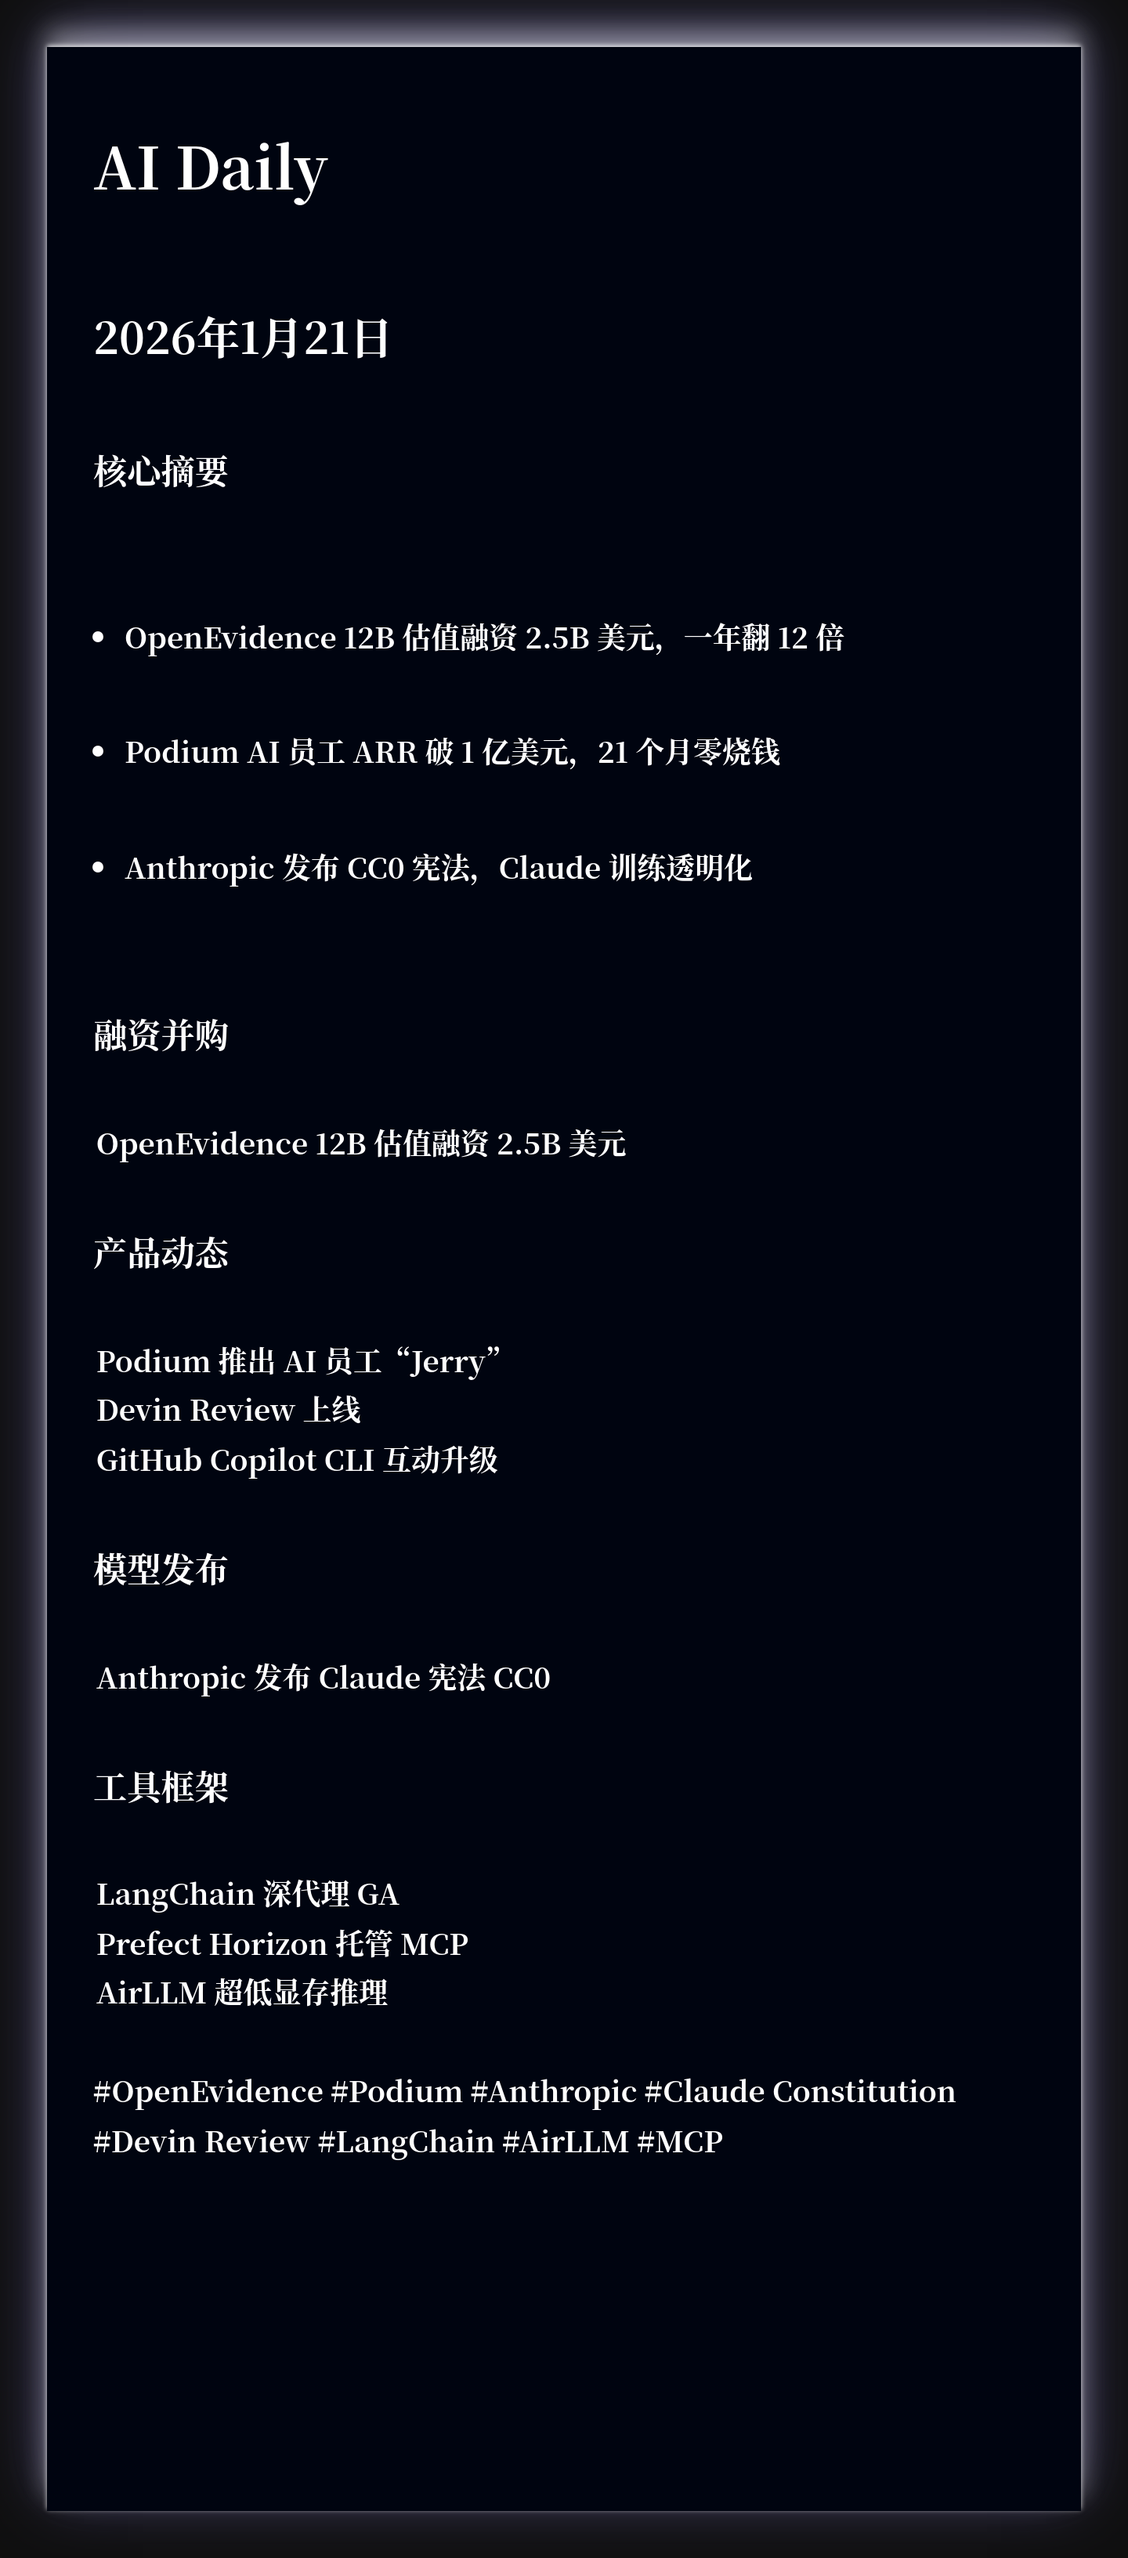
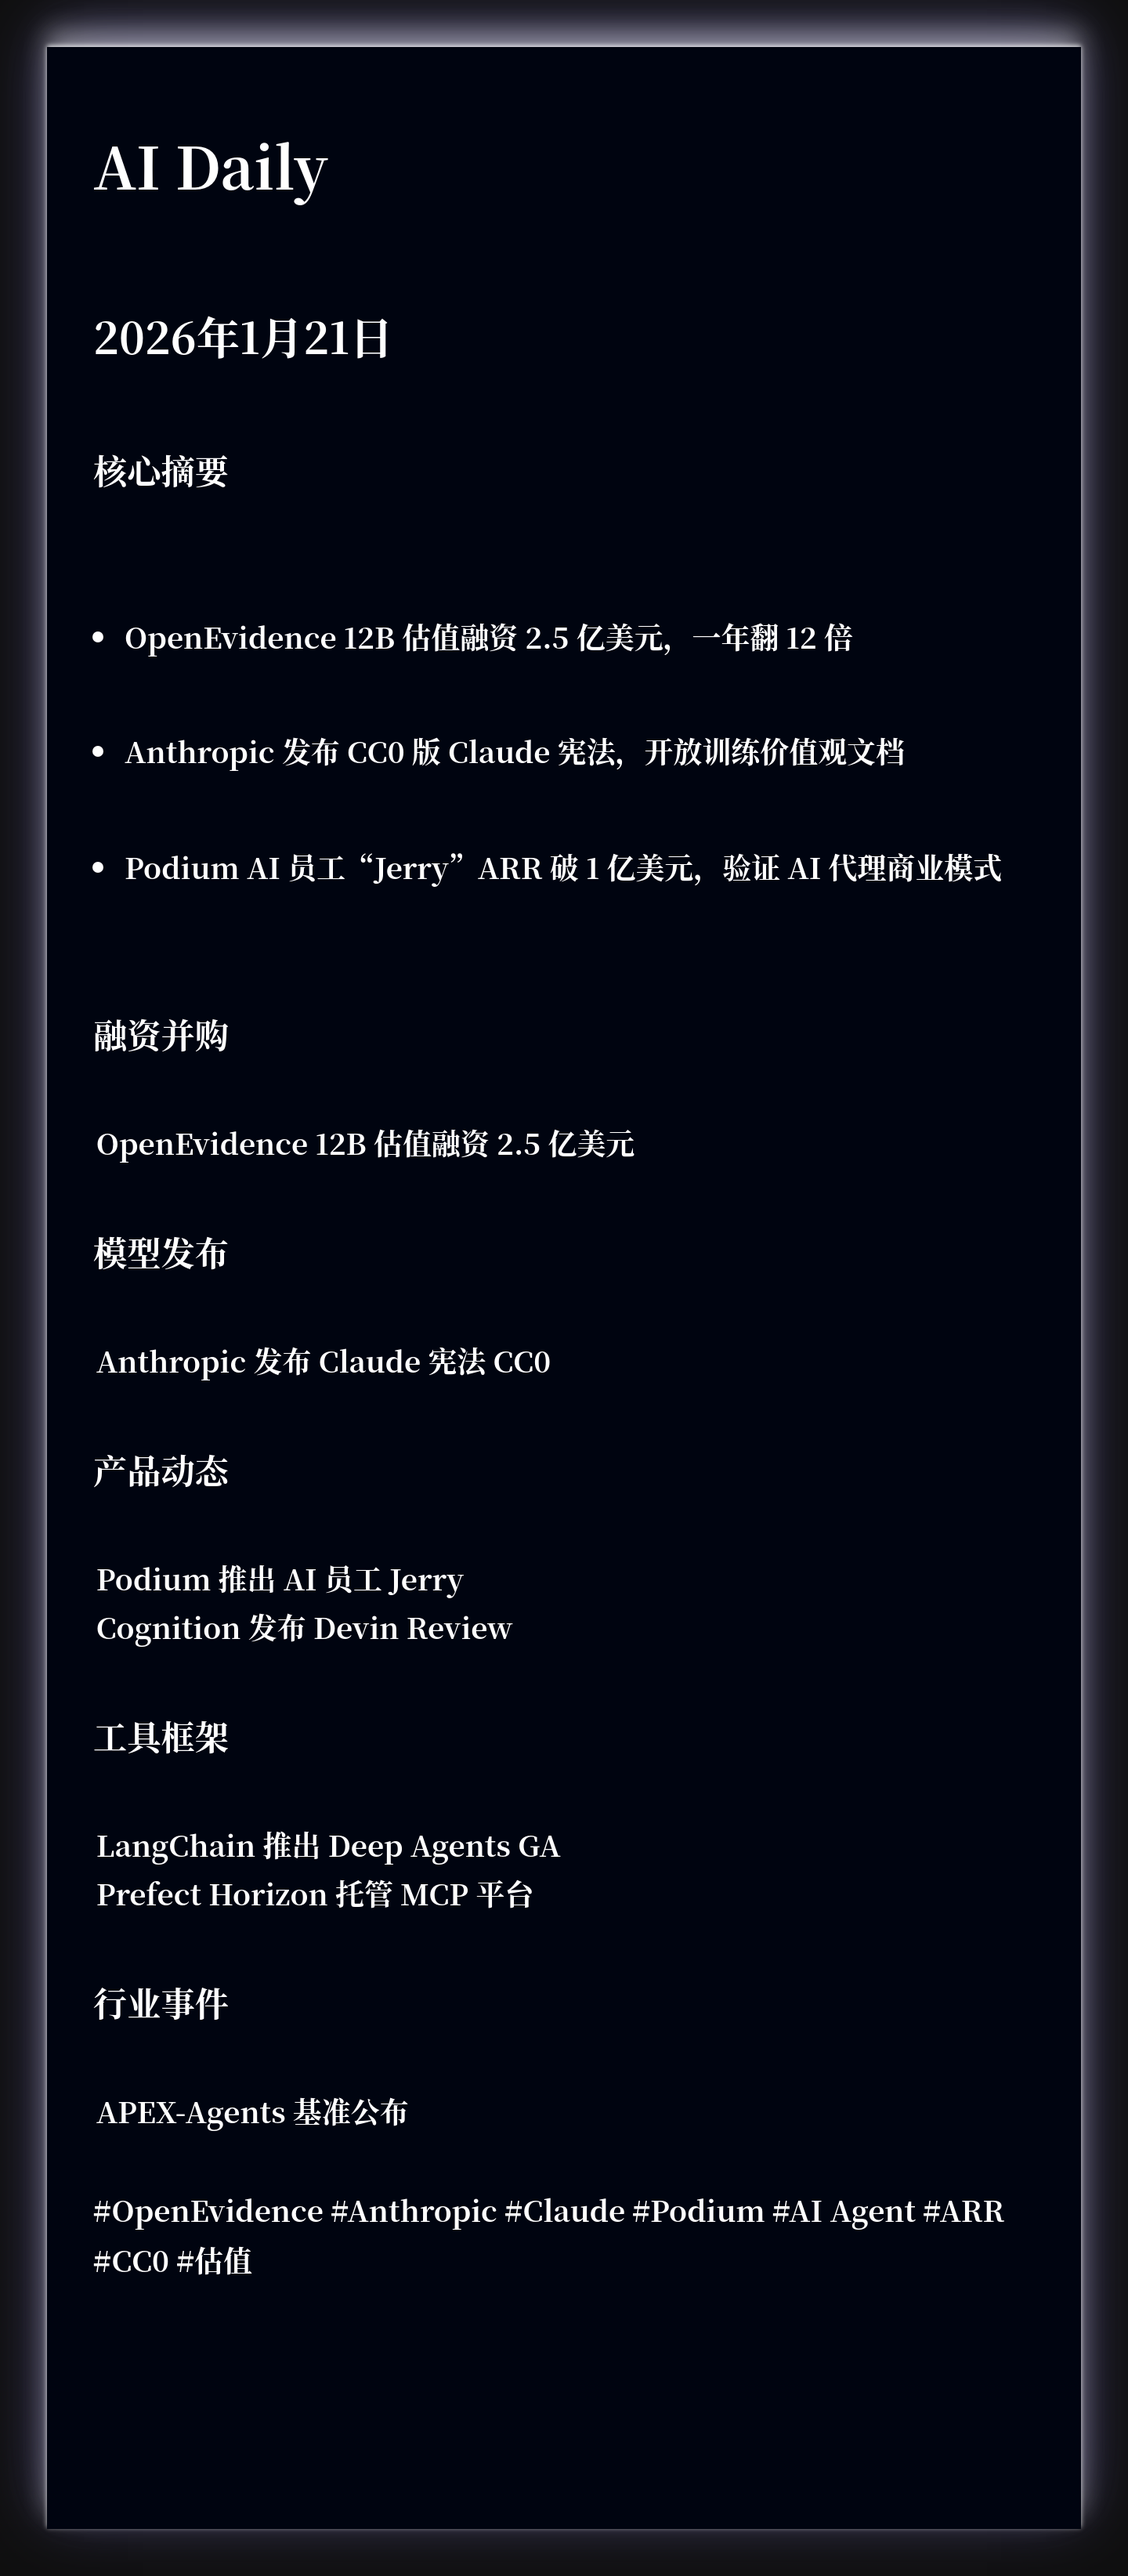
🤖 Auto update AI Daily - {{ date }} c12df99939e49153058be8885637e517e0945aa2

diff --git a/2026-01-21.html b/2026-01-21.html
@@ -5,7 +5,7 @@
     <meta name="viewport" content="width=device-width, initial-scale=1.0">
     <title>AI Daily · 2026年1月21日 星期三</title>
     <meta name="description" content="每日 AI 前沿资讯，智能分类，快速掌握核心动态">
-    <meta name="keywords" content="OpenEvidence, Podium, Anthropic, Claude Constitution, Devin Review, LangChain, AirLLM, MCP, APEX-Agents, MedGemma, AI, 人工智能, 机器学习, 深度学习, 资讯, 日报">
+    <meta name="keywords" content="OpenEvidence, Anthropic, Claude, Podium, AI Agent, ARR, CC0, 估值, 融资, 宪法, AI, 人工智能, 机器学习, 深度学习, 资讯, 日报">
     <link rel="stylesheet" href="css/styles.css">
 </head>
 <body data-theme="teal">
@@ -24,9 +24,9 @@
             <section class="summary-card">
                 <h2 class="section-title">📌 今日核心摘要</h2>
                 <ul class="summary-list">
-                <li class="summary-item">OpenEvidence 12B 估值融资 2.5B 美元，一年翻 12 倍</li>
-                <li class="summary-item">Podium AI 员工 ARR 破 1 亿美元，21 个月零烧钱</li>
-                <li class="summary-item">Anthropic 发布 CC0 宪法，Claude 训练透明化</li>
+                <li class="summary-item">OpenEvidence 12B 估值融资 2.5 亿美元，一年翻 12 倍</li>
+                <li class="summary-item">Anthropic 发布 CC0 版 Claude 宪法，开放训练价值观文档</li>
+                <li class="summary-item">Podium AI 员工“Jerry”ARR 破 1 亿美元，验证 AI 代理商业模式</li>
                 </ul>
             </section>
 
@@ -41,49 +41,11 @@
 
                 <article class="news-card">
                     <div class="news-card-header">
-                        <h3 class="news-title">OpenEvidence 12B 估值融资 2.5B 美元</h3>
+                        <h3 class="news-title">OpenEvidence 12B 估值融资 2.5 亿美元</h3>
                         <a href="https://www.cnbc.com/2026/01/21/openevidence-chatgpt-for-doctors-doubles-valuation-to-12-billion.html" class="item-link" target="_blank" rel="noopener">详情</a>
                     </div>
-                    <p class="news-summary">医疗 AI 问答平台一年估值翻 12 倍，覆盖 40% 美国医生</p>
-                    <div class="item-tags"><span class="tag">#OpenEvidence</span> <span class="tag">#医疗AI</span> <span class="tag">#融资</span></div>
-                </article>
-
-                </div>
-            </section>
-
-            <section class="category-section">
-                <div class="category-header">
-                    <span class="category-icon">💼</span>
-                    <h2 class="category-title">产品动态</h2>
-                    <span class="category-count">3</span>
-                </div>
-                <div class="news-grid">
-
-                <article class="news-card">
-                    <div class="news-card-header">
-                        <h3 class="news-title">Podium 推出 AI 员工“Jerry”</h3>
-                        
-                    </div>
-                    <p class="news-summary">AI 代理替代人工客服，ARR 超 1 亿美元，烧降为零</p>
-                    <div class="item-tags"><span class="tag">#Podium</span> <span class="tag">#AI员工</span> <span class="tag">#SMB</span></div>
-                </article>
-
-                <article class="news-card">
-                    <div class="news-card-header">
-                        <h3 class="news-title">Devin Review 上线</h3>
-                        
-                    </div>
-                    <p class="news-summary">Cognition 发布 PR 智能评审工具，聚焦代码理解而非生成</p>
-                    <div class="item-tags"><span class="tag">#Cognition</span> <span class="tag">#Devin</span> <span class="tag">#代码评审</span></div>
-                </article>
-
-                <article class="news-card">
-                    <div class="news-card-header">
-                        <h3 class="news-title">GitHub Copilot CLI 互动升级</h3>
-                        
-                    </div>
-                    <p class="news-summary">新增 askUserQuestionTool，支持交互式命令行协作</p>
-                    <div class="item-tags"><span class="tag">#GitHub</span> <span class="tag">#Copilot</span> <span class="tag">#CLI</span></div>
+                    <p class="news-summary">医疗 AI 搜索工具一年估值翻 12 倍，覆盖 40% 美国医生</p>
+                    <div class="item-tags"><span class="tag">#OpenEvidence</span> <span class="tag">#医疗AI</span> <span class="tag">#融资</span> <span class="tag">#估值</span></div>
                 </article>
 
                 </div>
@@ -102,8 +64,37 @@
                         <h3 class="news-title">Anthropic 发布 Claude 宪法 CC0</h3>
                         <a href="https://twitter.com/AnthropicAI/status/2014005798691877083" class="item-link" target="_blank" rel="noopener">详情</a>
                     </div>
-                    <p class="news-summary">公开 Claude 行为价值观文档，允许自由重用与修改</p>
-                    <div class="item-tags"><span class="tag">#Anthropic</span> <span class="tag">#Claude</span> <span class="tag">#对齐</span></div>
+                    <p class="news-summary">公开训练用价值观文档，允许自由重用与修改</p>
+                    <div class="item-tags"><span class="tag">#Anthropic</span> <span class="tag">#Claude</span> <span class="tag">#对齐</span> <span class="tag">#CC0</span></div>
+                </article>
+
+                </div>
+            </section>
+
+            <section class="category-section">
+                <div class="category-header">
+                    <span class="category-icon">💼</span>
+                    <h2 class="category-title">产品动态</h2>
+                    <span class="category-count">2</span>
+                </div>
+                <div class="news-grid">
+
+                <article class="news-card">
+                    <div class="news-card-header">
+                        <h3 class="news-title">Podium 推出 AI 员工 Jerry</h3>
+                        <a href="https://twitter.com/ericwilliamrea/status/2013980401635582277" class="item-link" target="_blank" rel="noopener">详情</a>
+                    </div>
+                    <p class="news-summary">AI 代理 21 个月贡献 1 亿美元 ARR，帮 SMB 自动跟进潜客</p>
+                    <div class="item-tags"><span class="tag">#Podium</span> <span class="tag">#AI Agent</span> <span class="tag">#ARR</span> <span class="tag">#SMB</span></div>
+                </article>
+
+                <article class="news-card">
+                    <div class="news-card-header">
+                        <h3 class="news-title">Cognition 发布 Devin Review</h3>
+                        <a href="https://twitter.com/cognition/status/2014079905755955592" class="item-link" target="_blank" rel="noopener">详情</a>
+                    </div>
+                    <p class="news-summary">AI PR 阅读工具，可重排差异、发现复制代码并聊天答疑</p>
+                    <div class="item-tags"><span class="tag">#Cognition</span> <span class="tag">#Devin</span> <span class="tag">#代码审查</span> <span class="tag">#UX</span></div>
                 </article>
 
                 </div>
@@ -113,44 +104,46 @@
                 <div class="category-header">
                     <span class="category-icon">🛠</span>
                     <h2 class="category-title">工具框架</h2>
-                    <span class="category-count">4</span>
+                    <span class="category-count">2</span>
                 </div>
                 <div class="news-grid">
 
                 <article class="news-card">
                     <div class="news-card-header">
-                        <h3 class="news-title">LangChain 深代理 GA</h3>
-                        
+                        <h3 class="news-title">LangChain 推出 Deep Agents GA</h3>
+                        <a href="https://twitter.com/LangChain/status/2014034320256880768" class="item-link" target="_blank" rel="noopener">详情</a>
                     </div>
-                    <p class="news-summary">Agent Builder 正式版+模板库，代理可打包成文件夹分发</p>
-                    <div class="item-tags"><span class="tag">#LangChain</span> <span class="tag">#DeepAgents</span></div>
+                    <p class="news-summary">模板库+CLI 一键打包代理，强调“代理即文件夹”便携性</p>
+                    <div class="item-tags"><span class="tag">#LangChain</span> <span class="tag">#Deep Agents</span> <span class="tag">#CLI</span> <span class="tag">#模板</span></div>
                 </article>
 
                 <article class="news-card">
                     <div class="news-card-header">
-                        <h3 class="news-title">Prefect Horizon 托管 MCP</h3>
-                        
+                        <h3 class="news-title">Prefect Horizon 托管 MCP 平台</h3>
+                        <a href="https://twitter.com/jlowin/status/2014023606380957754" class="item-link" target="_blank" rel="noopener">详情</a>
                     </div>
-                    <p class="news-summary">提供企业级代理上下文层，含权限审计与网关治理</p>
-                    <div class="item-tags"><span class="tag">#Prefect</span> <span class="tag">#MCP</span> <span class="tag">#企业</span></div>
+                    <p class="news-summary">提供企业级 RBAC、审计与网关，解决 MCP 服务器治理空白</p>
+                    <div class="item-tags"><span class="tag">#Prefect</span> <span class="tag">#MCP</span> <span class="tag">#企业治理</span> <span class="tag">#RBAC</span></div>
                 </article>
+
+                </div>
+            </section>
+
+            <section class="category-section">
+                <div class="category-header">
+                    <span class="category-icon">🏆</span>
+                    <h2 class="category-title">行业事件</h2>
+                    <span class="category-count">1</span>
+                </div>
+                <div class="news-grid">
 
                 <article class="news-card">
                     <div class="news-card-header">
-                        <h3 class="news-title">AirLLM 超低显存推理</h3>
-                        
+                        <h3 class="news-title">APEX-Agents 基准公布</h3>
+                        <a href="https://twitter.com/BrendanFoody/status/2014028956752568356" class="item-link" target="_blank" rel="noopener">详情</a>
                     </div>
-                    <p class="news-summary">顺序层加载技术，405B 模型可在 8GB 显存运行</p>
-                    <div class="item-tags"><span class="tag">#AirLLM</span> <span class="tag">#推理优化</span></div>
-                </article>
-
-                <article class="news-card">
-                    <div class="news-card-header">
-                        <h3 class="news-title">APEX-Agents 基准发布</h3>
-                        
-                    </div>
-                    <p class="news-summary">Google Workspace 长时任务测评，当前最佳仅 24% 通过率</p>
-                    <div class="item-tags"><span class="tag">#APEX-Agents</span> <span class="tag">#基准测试</span></div>
+                    <p class="news-summary">Google Workspace 长任务测评，最高通过率仅 24%，凸显代理脆弱性</p>
+                    <div class="item-tags"><span class="tag">#APEX-Agents</span> <span class="tag">#基准</span> <span class="tag">#Google Workspace</span></div>
                 </article>
 
                 </div>
@@ -158,7 +151,7 @@
 
 
         <footer class="keywords-footer">
-            <p>#关键词: OpenEvidence | Podium | Anthropic | Claude Constitution | Devin Review | LangChain | AirLLM | MCP | APEX-Agents | MedGemma</p>
+            <p>#关键词: OpenEvidence | Anthropic | Claude | Podium | AI Agent | ARR | CC0 | 估值 | 融资 | 宪法</p>
         </footer>
 
         </main>

diff --git a/xiaohongshu/xhs-2026-01-21.html b/xiaohongshu/xhs-2026-01-21.html
@@ -316,20 +316,20 @@
 
                 <!-- 主标题区域 -->
                 <div class="title-section">
-                    <div class="main-title">AI</div>
+                    <div class="main-title">Claude · Anthropic</div>
                     <div class="divider"></div>
                     <div class="subtitle">OpenEvidence 12B 估值融资 2.5...</div>
 
                     <!-- 亮点 -->
                     <div class="highlights">
-                        <span class="highlight-item">OpenEv</span><span class="highlight-item">Podium</span><span class="highlight-item">Anthro</span>
+                        <span class="highlight-item">OpenEv</span><span class="highlight-item">Anthro</span><span class="highlight-item">Podium</span>
                     </div>
                 </div>
 
                 <!-- 底部区域 -->
                 <div class="bottom-section">
                     <div class="keywords">
-                        <span class="keyword-tag">#OpenEvidence</span><span class="keyword-tag">#Podium</span><span class="keyword-tag">#Anthropic</span><span class="keyword-tag">#Claude Constitution</span><span class="keyword-tag">#Devin Review</span>
+                        <span class="keyword-tag">#OpenEvidence</span><span class="keyword-tag">#Anthropic</span><span class="keyword-tag">#Claude</span><span class="keyword-tag">#Podium</span><span class="keyword-tag">#AI Agent</span>
                     </div>
                     <div class="account-info">
                         <div class="account-name">极客杰尼</div>

diff --git a/index.html b/index.html
@@ -29,7 +29,7 @@
                         <span class="entry-date">2026年1月21日 星期三</span>
                         <span class="entry-arrow">→</span>
                     </div>
-                    <p class="entry-summary">OpenEvidence 12B 估值融资 2.5B 美元，一年翻 12 倍</p>
+                    <p class="entry-summary">OpenEvidence 12B 估值融资 2.5 亿美元，一年翻 12 倍</p>
                 </a>
             </article>
 
